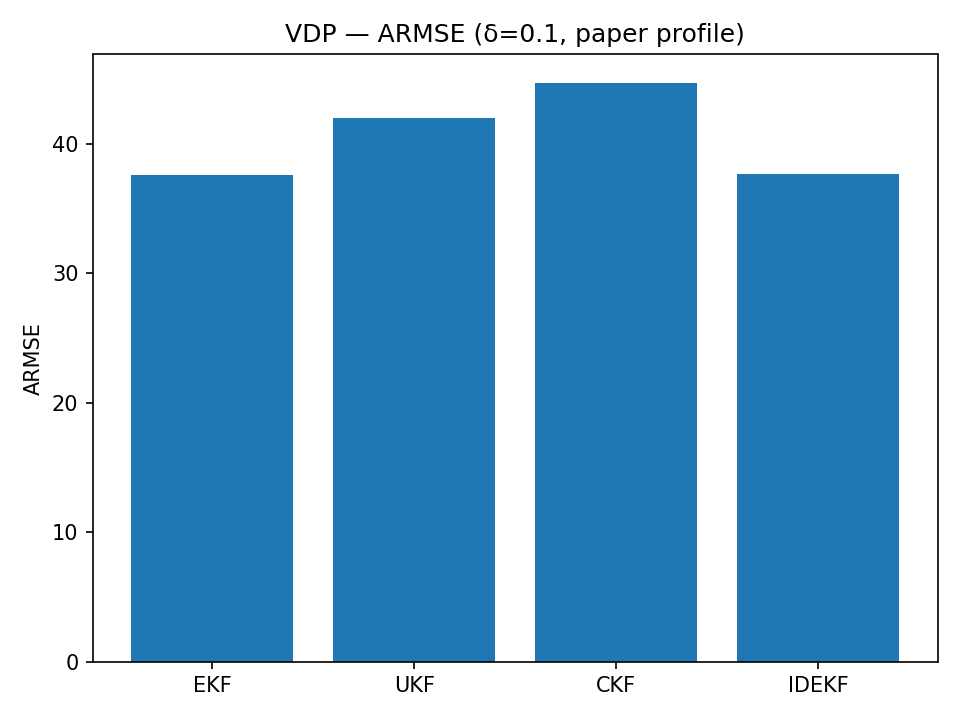
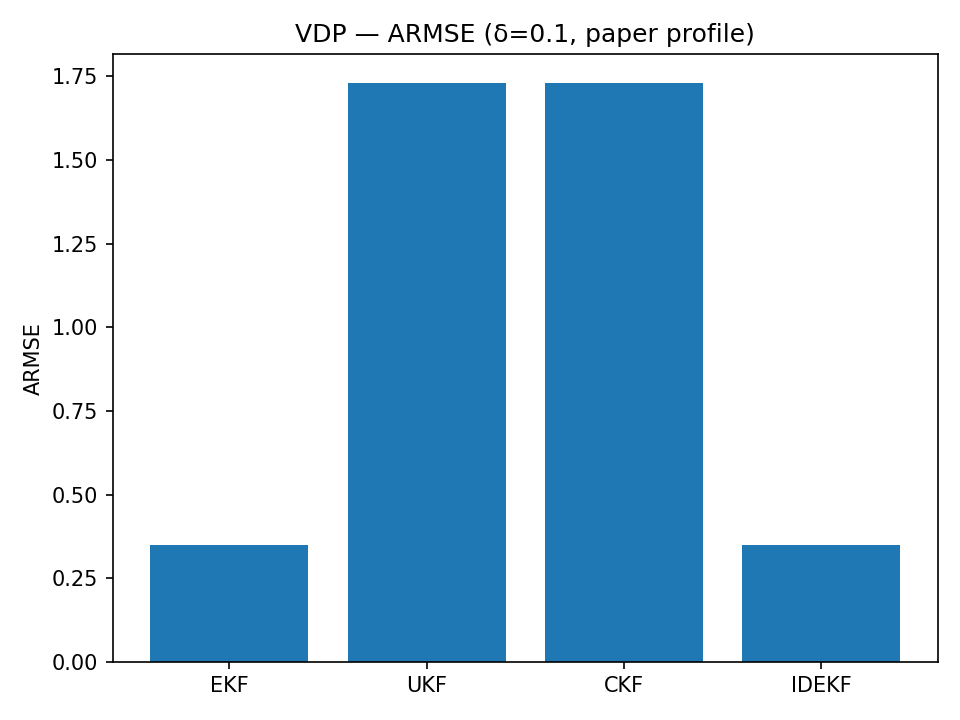
changes

diff --git a/run_armse.py b/run_armse.py
@@ -46,8 +46,8 @@ def run_cd(case: str, deltas: List[float], N_runs: int, seed: int, outdir: str,
 
     # Paper profile (used for both truth ODE and filter MDEs)
     integ_method = "BDF"
-    truth_rtol, truth_atol = 1e-6, 1e-6
-    flt_rtol, flt_atol = 1e-6, 1e-6
+    truth_rtol, truth_atol = 1e-9, 1e-9
+    flt_rtol, flt_atol = 1e-9, 1e-9
     max_step_abs = 1.0e-1
 
     # Problem setup
@@ -197,7 +197,7 @@ def export_armse_summary(results, outdir, case):
 if __name__ == "__main__":
     parser = argparse.ArgumentParser()
     parser.add_argument("--case", choices=["dahlquist", "vdp"], default="vdp")
-    parser.add_argument("--runs", type=int, default=1)          # Paper-style averaging
+    parser.add_argument("--runs", type=int, default=10)          # Paper-style averaging
     parser.add_argument("--seed", type=int, default=1)
     parser.add_argument("--outdir", type=str, default="results")
     parser.add_argument("--deltas", type=float, nargs="*", default=[0.1, 0.2, 0.3, 0.4, 0.5])
